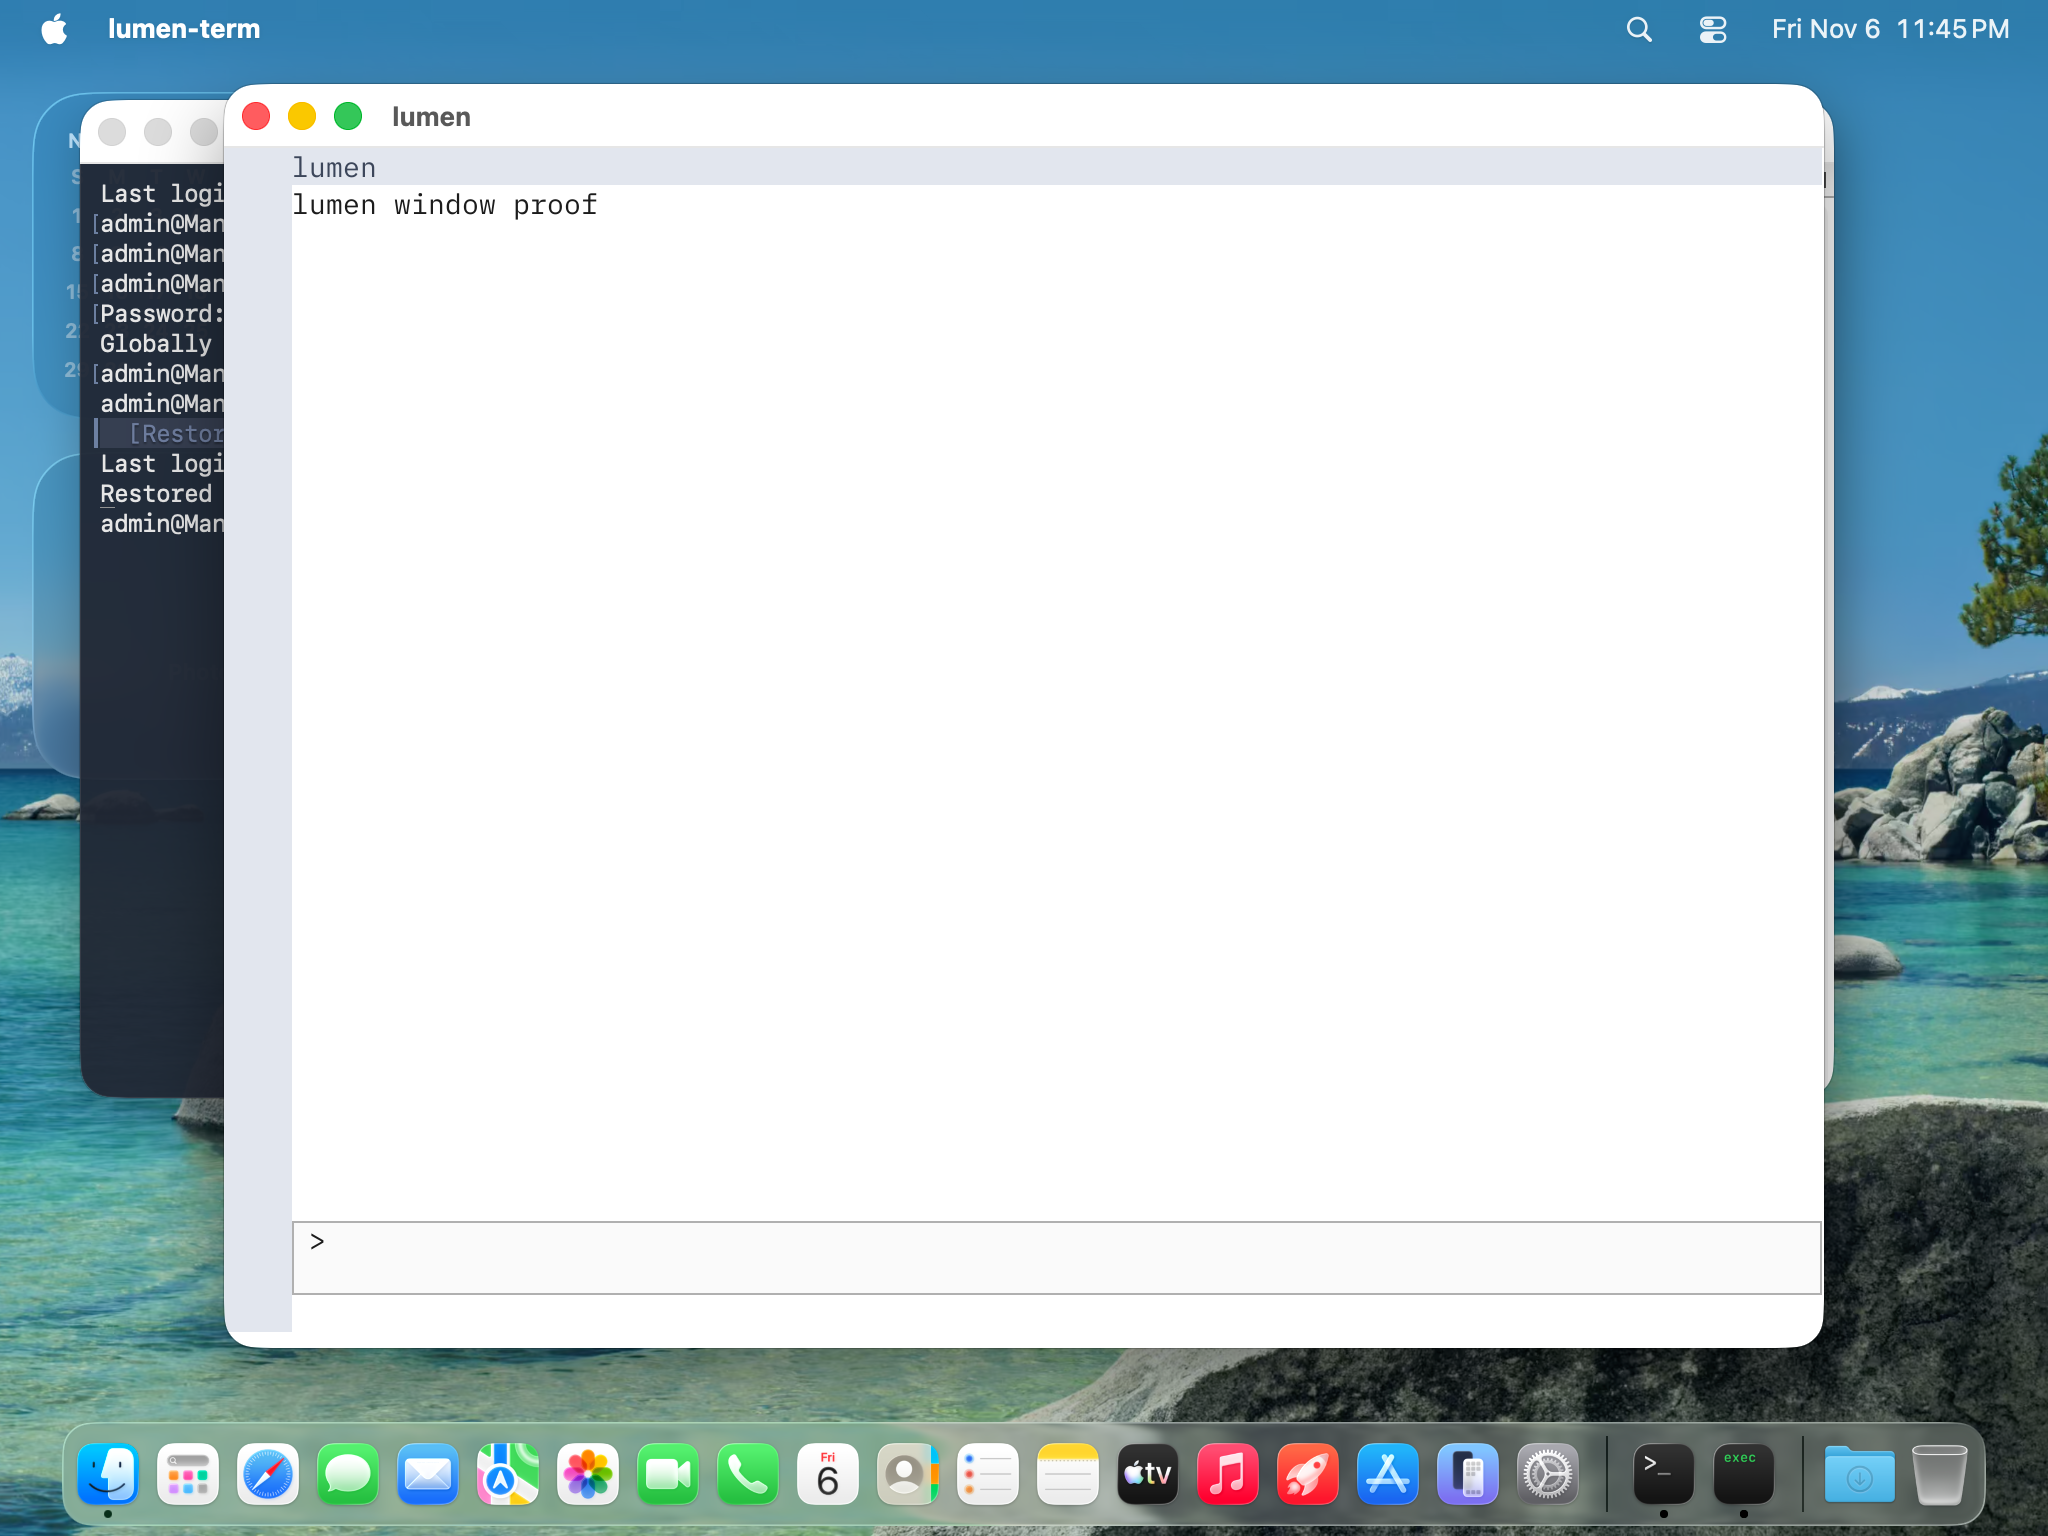
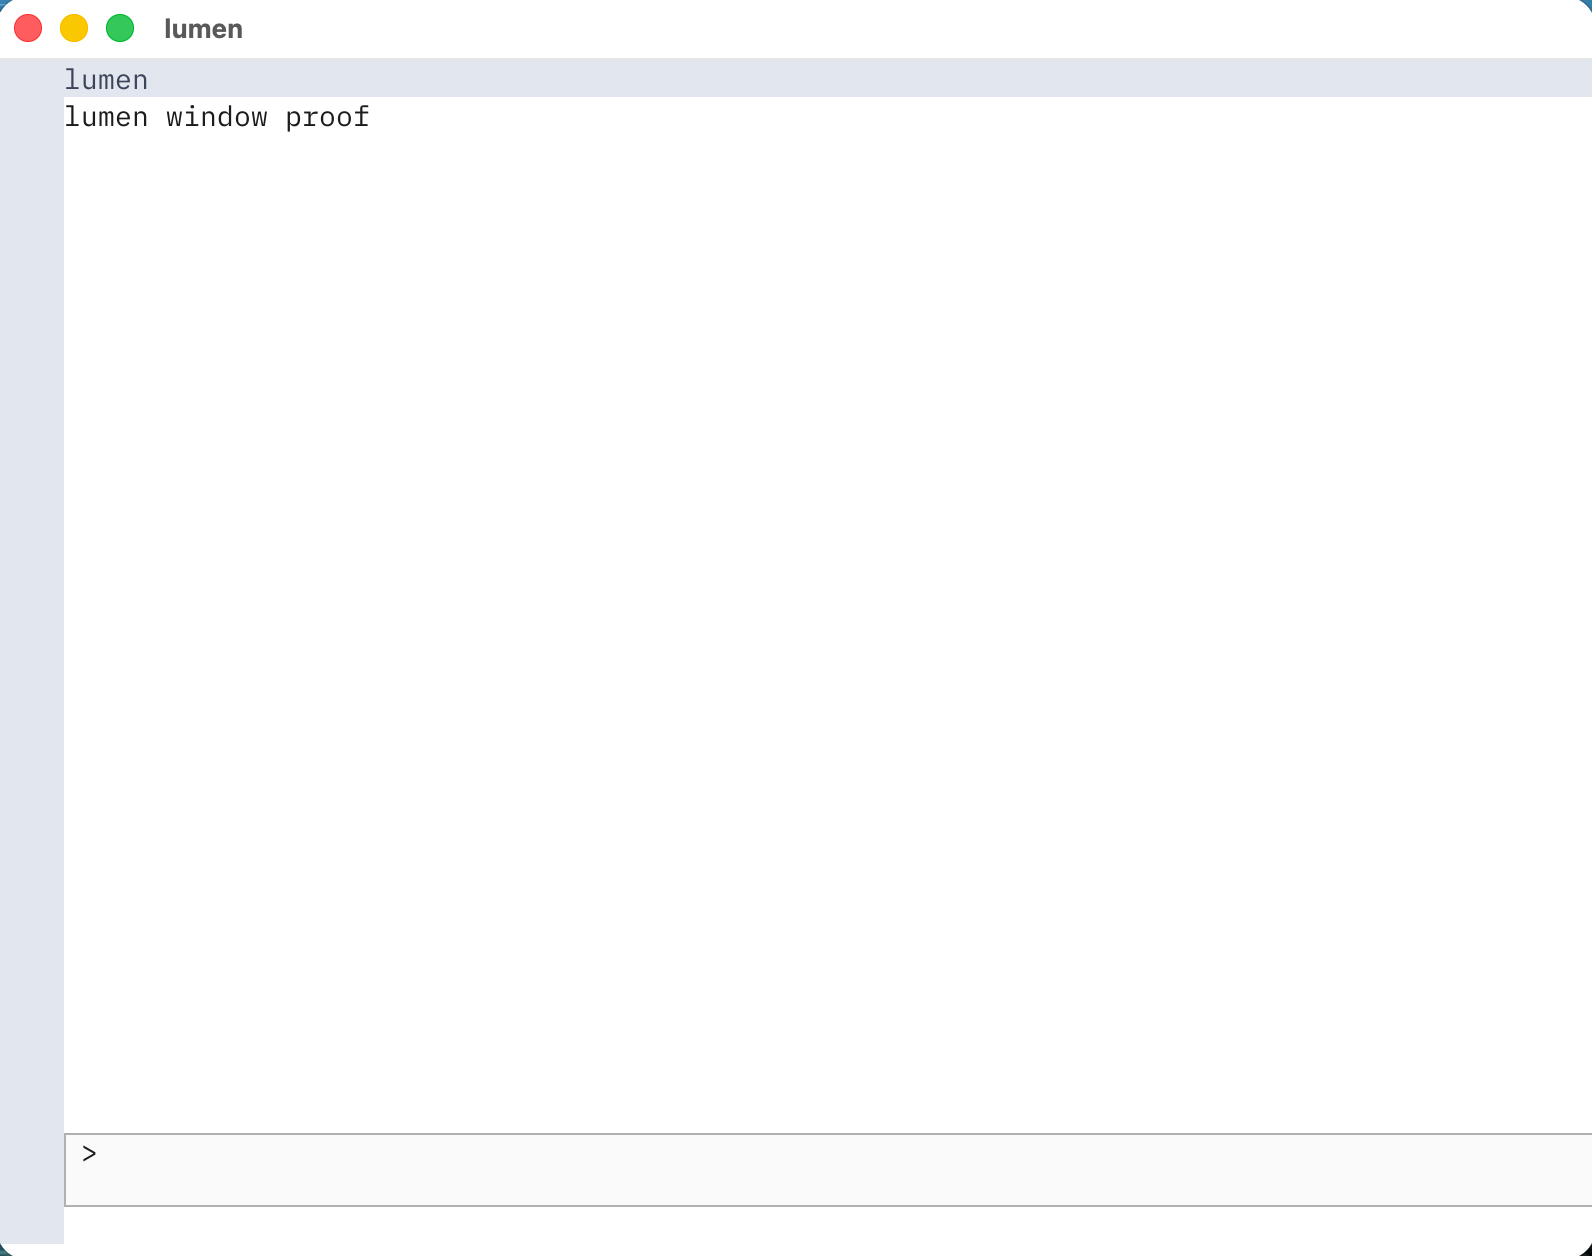
Commit native-window captures for all three platforms
README and site now use committed native-window captures for macOS, Linux and Windows.

diff --git a/README.md b/README.md
@@ -34,7 +34,7 @@ Lumen is in **Phase 0.5**: a comparison of two candidate designs before v0 is ch
   - **Sealed shell (Linux):** a probe for the sealing conditions and a key-holder process shell are in the repository. The holder accepts messages only from the terminal's shell process, by kernel credentials. It can receive the layer's key over a socket pair and zeroizes it when it ends. It asks the kernel to lock the key's memory and records whether that succeeded; it keeps the key even when locking fails. A sender function for the key exists, but nothing in the terminal calls it yet, so no key is delivered in production. With the `seal-requests` feature of the holder (off by default), once the shell has said it is ready and the key has arrived, the holder seals a command start, a prompt boundary or a command end when the shell asks, and answers with the sealed frame; it refuses every other frame type, a payload that is not the layout of its type, and any request from a process that is not the shell. With the same feature, a function on the terminal's side (`start_layer`) starts the holder only when the sealing decision says to seal, makes the layer's key from the system's random source, delivers it, and returns the receiver the terminal's layer uses to read what the holder sealed; a session can take that receiver. Nothing in the terminal calls it yet and no shell is given the seal channel, so no layer seals today, and there is no open request: the holder never opens a frame. macOS and other systems are grid-only by design.
   - **Zero-width text:** paragraph and heading text keeps every code point, including joiners and variation selectors; a zero width space is a place to break a line and is never drawn; bidirectional controls are closed at every line and block end so they cannot reach the margin or the next block. Where the terminal itself composes text a person relies on to judge trust (notification text, for now), default-ignorable and bidirectional code points are shown as visible escapes such as `⟨U+200B⟩` instead of being removed. This is on by default in `lumen-track0` and `lumen-term`; building without default features keeps the earlier rule. The bundled face has no glyphs for the escape brackets, so they draw blank for now.
   - **Links, copy and paste safety:** behind the off-by-default `links-clipboard` feature of `lumen-term`, with no caller yet: the allowlist for link targets (`https`, `http`, `mailto`; `file` inert; the rest refused), the full target shown with the host in punycode, the mismatch flag, `mailto` as RFC 6068 describes, plain copy giving the visible text, copy that strips bidirectional and invisible characters from command and code text, and the paste rules (control removal, frame introducers rejected, a multi-line paste held without bracketed paste). See [the notes](docs/phase-1/links-and-clipboard.md).
-  - **Not claimed:** no release; the image gate rests on the carried-forward evidence described above and not on a new run. A Windows native-window capture is committed; Linux and macOS operating-system window captures are not.
+  - **Not claimed:** no release; the image gate rests on the carried-forward evidence described above and not on a new run. Native-window captures are committed for Linux, macOS and Windows ([docs/proof](docs/proof)); the Linux capture is X11 under Xvfb and the macOS one is from a clean virtual machine, neither on a physical display.
 - **Latest run:** the final comparison rerun at main `d8994bbcbaacda7a94104c07c55722a6f1cedec4`, on a clean Linux virtual machine that was destroyed after the run. The repository's own comparison script ran every mode, and every mode exited as expected. The results are the numbers of that run, and each is stated with its caveat:
   - **Tests:** 287 per-test lines, all passing.
   - **Red-team corpora (2.2):** rt-1, rt-2.1, rt-3 and rt-4 together, 95 cases, give 0 violations for each arm. This checks byte-pipeline output, not what a terminal draws. 330 sealed frames opened on each sealed arm; they were sealed under public test keys, so this exercises the upgrade path only.

diff --git a/site/content/_index.md b/site/content/_index.md
@@ -14,7 +14,7 @@ Lumen is a new protocol rather than another escape-code extension. Grid blocks g
 
 ## Status
 
-`lumen-term` has a native window backend behind the off-by-default `window` feature. It is implemented and tested on Linux and Windows; a dedicated standard Windows test profile built the binary and captured a real native window. macOS is not yet proven.
+`lumen-term` has a native window backend behind the off-by-default `window` feature. It is implemented and tested on Linux, macOS and Windows, and a real native window was captured on each: Linux under X11 on a virtual display, macOS in a clean virtual machine, and Windows on a dedicated test profile. None of these was a physical display.
 
 The current public draft is **Lumen Protocol v0, revision 25 (frozen snapshot)**. It is not stable, and breaking changes are expected. [Read the spec](@/spec/v0/_index.md). The decisions behind it and the risks accepted are on the [decisions page](@/decisions.md).
 
